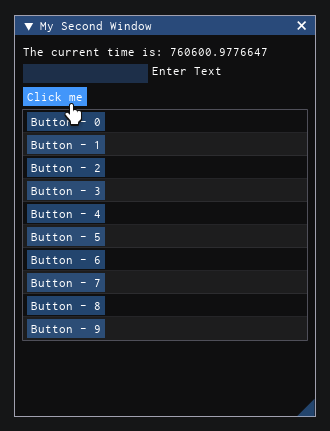
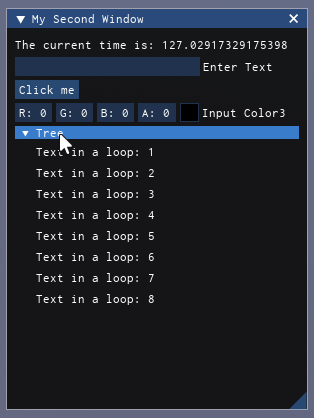
update readme pictures

diff --git a/README.md b/README.md
@@ -38,7 +38,7 @@ Iris:Connect(function()
 	local windowSize = Iris.State(Vector2.new(300, 400))
 
 	Iris.Window({"My Second Window"}, {size = windowSize})
-		Iris.Text({"The current time is: " .. os.clock()})
+		Iris.Text({"The current time is: " .. time()})
 
 		Iris.InputText({"Enter Text"})
 
@@ -46,10 +46,11 @@ Iris:Connect(function()
 			print("button was clicked")
 		end
 
-		Iris.Table({1})
-			for i = 0, 9 do
-				Iris.Button({"Button - " .. i})
-                Iris.NextColumn()
+		Iris.InputColor4()
+
+		Iris.Tree()
+			for i = 1,8 do
+				Iris.Text({"Text in a loop: " .. i})
 			end
 		Iris.End()
 	Iris.End()
